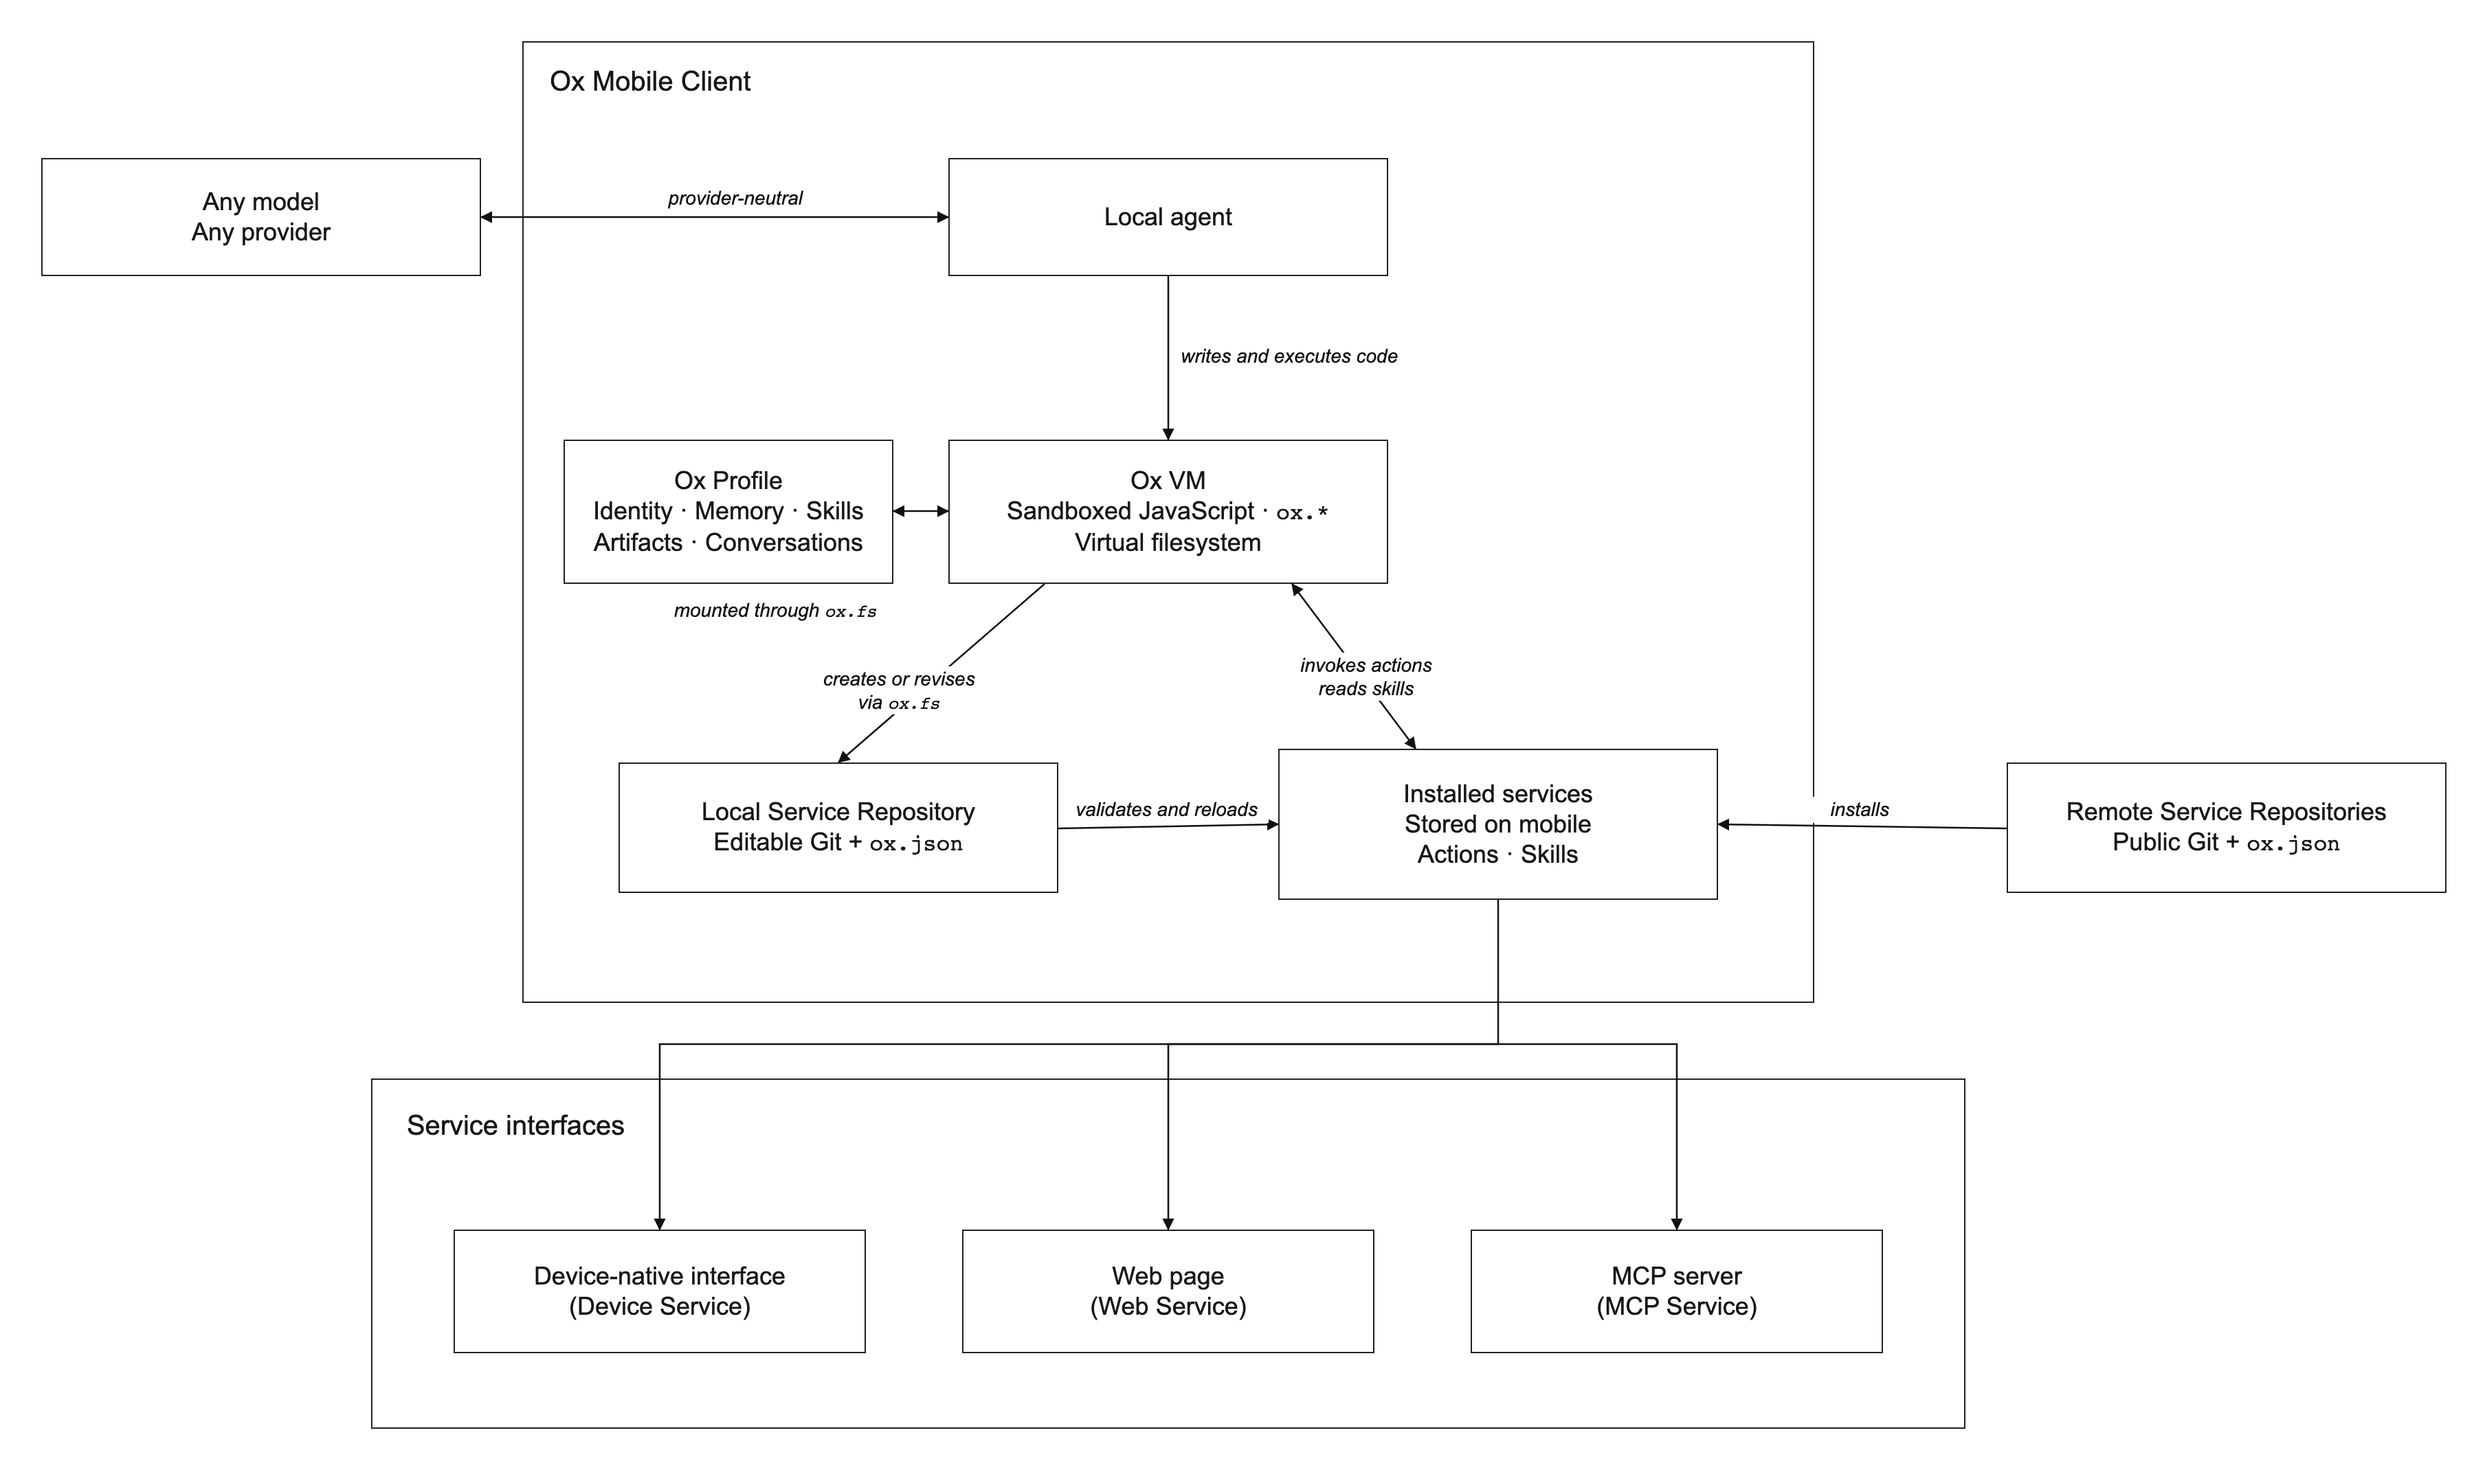
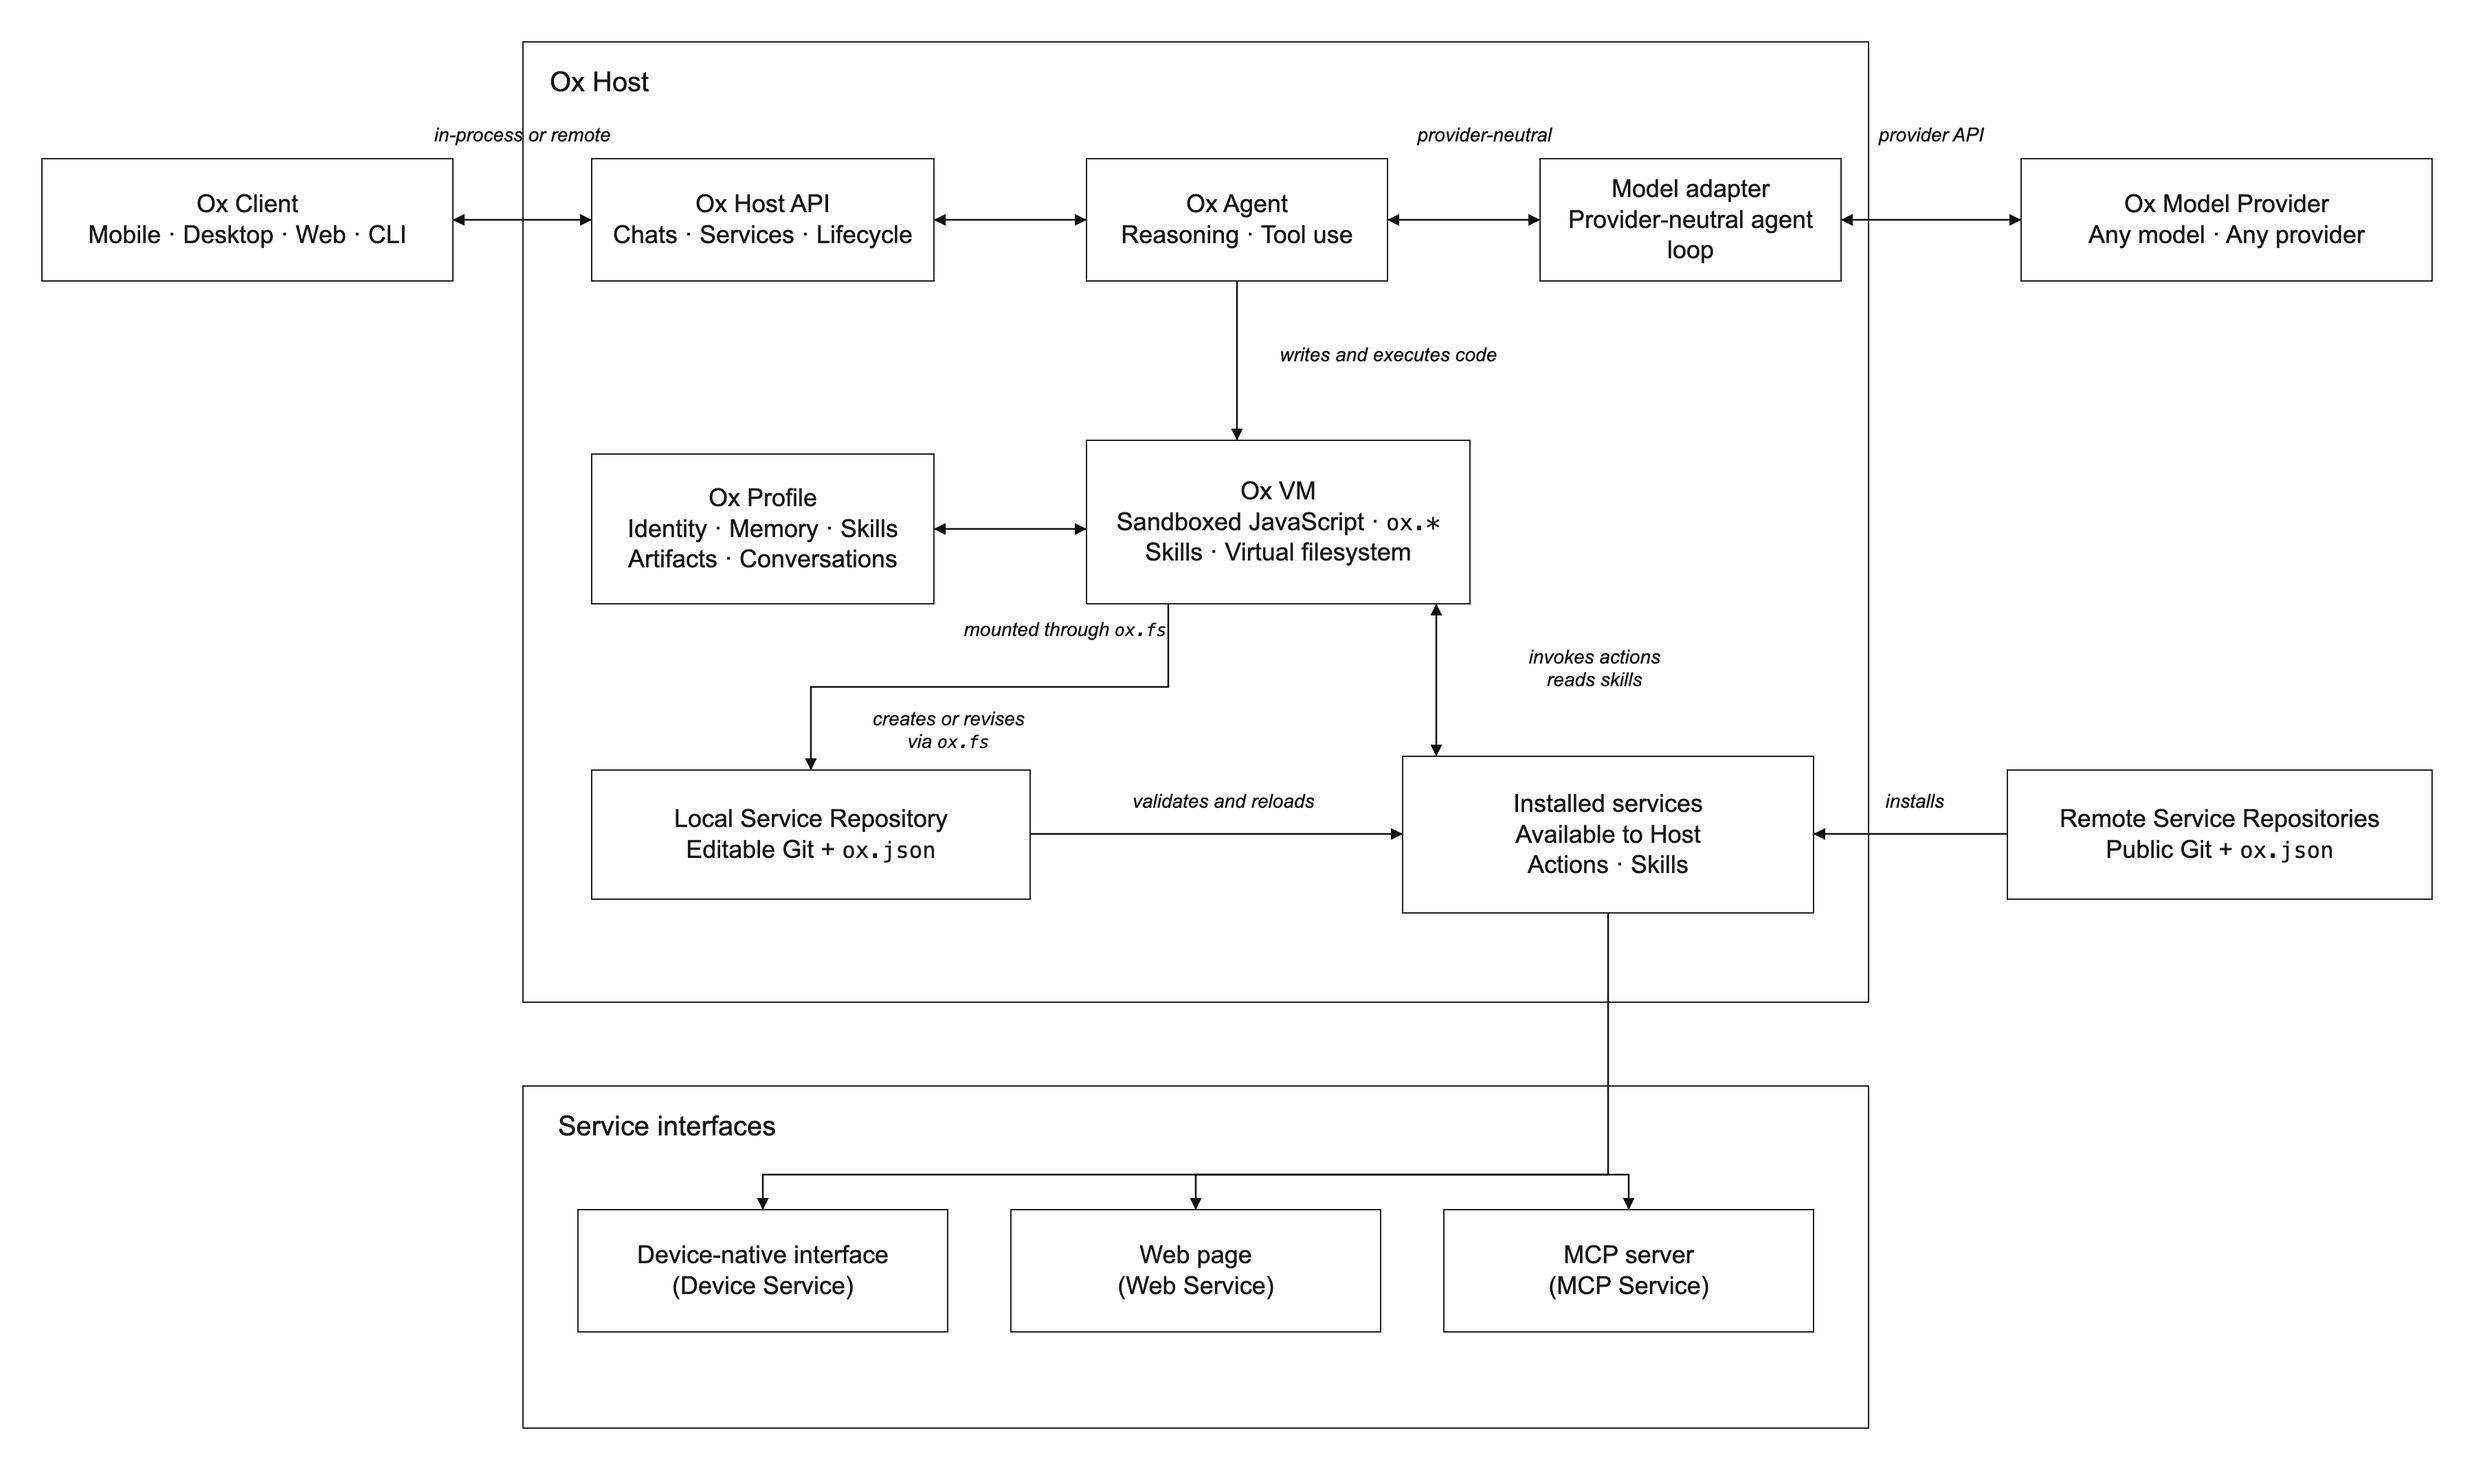
Update OpenOx components diagram

diff --git a/docs/openox-components.html b/docs/openox-components.html
@@ -44,18 +44,18 @@
       background: #ffffff;
     }
 
-    .client {
+    .host {
       left: 21.1111%;
       top: 2.8037%;
-      width: 52.2222%;
+      width: 54.4444%;
       height: 65.4206%;
     }
 
     .interfaces {
-      left: 15%;
-      top: 73.3645%;
-      width: 64.4444%;
-      height: 23.8318%;
+      left: 21.1111%;
+      top: 73.8318%;
+      width: 54.4444%;
+      height: 23.3645%;
     }
 
     .group-title {
@@ -67,10 +67,10 @@
       line-height: 1;
     }
 
-    .client-title { left: 22.2222%; top: 4.6729%; }
+    .host-title { left: 22.2222%; top: 4.6729%; }
 
     .interfaces-title {
-      left: 16.1111%;
+      left: 22.2222%;
       top: 75.7009%;
       padding: 0 6px;
       background: #ffffff;
@@ -101,16 +101,19 @@
       font-size: 0.9em;
     }
 
-    .model { left: 1.6667%; top: 10.7477%; width: 17.7778%; height: 8.0374%; }
-    .profile { left: 22.7778%; top: 29.9065%; width: 13.3333%; height: 9.8131%; }
-    .agent { left: 38.3333%; top: 10.7477%; width: 17.7778%; height: 8.0374%; }
-    .vm { left: 38.3333%; top: 29.9065%; width: 17.7778%; height: 9.8131%; }
-    .local-repository { left: 25%; top: 51.8692%; width: 17.7778%; height: 8.8785%; }
-    .services { left: 51.6667%; top: 50.9346%; width: 17.7778%; height: 10.2804%; }
-    .remote-repositories { left: 81.1111%; top: 51.8692%; width: 17.7778%; height: 8.8785%; }
-    .device { left: 18.3333%; top: 83.6449%; width: 16.6667%; height: 8.4112%; }
-    .web { left: 38.8889%; top: 83.6449%; width: 16.6667%; height: 8.4112%; }
-    .mcp { left: 59.4444%; top: 83.6449%; width: 16.6667%; height: 8.4112%; }
+    .client-node { left: 1.6667%; top: 10.7477%; width: 16.6667%; height: 8.4112%; }
+    .host-api { left: 23.8889%; top: 10.7477%; width: 13.8889%; height: 8.4112%; }
+    .agent { left: 43.8889%; top: 10.7477%; width: 12.2222%; height: 8.4112%; }
+    .model-adapter { left: 62.2222%; top: 10.7477%; width: 12.2222%; height: 8.4112%; }
+    .model { left: 81.6667%; top: 10.7477%; width: 16.6667%; height: 8.4112%; }
+    .profile { left: 23.8889%; top: 30.8411%; width: 13.8889%; height: 10.2804%; }
+    .vm { left: 43.8889%; top: 29.9065%; width: 15.5556%; height: 11.215%; }
+    .local-repository { left: 23.8889%; top: 52.3364%; width: 17.7778%; height: 8.8785%; }
+    .services { left: 56.6667%; top: 51.4019%; width: 16.6667%; height: 10.7477%; }
+    .remote-repositories { left: 81.1111%; top: 52.3364%; width: 17.2222%; height: 8.8785%; }
+    .device { left: 23.3333%; top: 82.243%; width: 15%; height: 8.4112%; }
+    .web { left: 40.8333%; top: 82.243%; width: 15%; height: 8.4112%; }
+    .mcp { left: 58.3333%; top: 82.243%; width: 15%; height: 8.4112%; }
 
     .connections {
       position: absolute;
@@ -132,8 +135,7 @@
     .edge-label {
       position: absolute;
       z-index: 3;
-      padding: 1px 4px;
-      background: #ffffff;
+      padding: 0;
       color: #111111;
       font-size: clamp(9px, 0.78vw, 14px);
       font-style: italic;
@@ -142,13 +144,15 @@
       white-space: nowrap;
     }
 
-    .provider-label { left: 24.7222%; top: 12.6168%; width: 10%; }
-    .profile-label { left: 23.3333%; top: 40.6542%; width: 16%; }
-    .agent-label { left: 47.5%; top: 23.3645%; }
-    .local-label { left: 31.3333%; top: 45.3271%; width: 10%; }
-    .invoke-label { left: 52.3333%; top: 44.3925%; }
-    .validate-label { left: 43%; top: 54.2056%; width: 8.3%; }
-    .install-label { left: 71.6667%; top: 54.2056%; width: 7%; }
+    .host-label { left: 17.2222%; top: 8.4112%; width: 7.7778%; }
+    .provider-label { left: 74.4444%; top: 8.4112%; width: 7.2222%; }
+    .agent-label { left: 51.1111%; top: 23.3645%; width: 10%; }
+    .profile-label { left: 36.1111%; top: 42.0561%; width: 13.8889%; }
+    .adapter-label { left: 56.1111%; top: 8.4112%; width: 7.7778%; }
+    .local-label { left: 33.3333%; top: 48.1308%; width: 10%; }
+    .invoke-label { left: 59.4444%; top: 43.9252%; width: 10%; }
+    .validate-label { left: 43.8889%; top: 53.7383%; width: 11.1111%; }
+    .install-label { left: 73.8889%; top: 53.7383%; width: 7%; }
 
     .sr-only {
       position: absolute;
@@ -165,20 +169,23 @@
 </head>
 <body>
   <main class="diagram" aria-labelledby="diagram-title">
-    <h1 id="diagram-title" class="sr-only">OpenOx components and service interfaces</h1>
+    <h1 id="diagram-title" class="sr-only">OpenOx Client, Host, Agent, Profile, VM, services, and service interfaces</h1>
 
-    <section class="group client" aria-labelledby="client-title"></section>
-    <h2 id="client-title" class="group-title client-title">Ox Mobile Client</h2>
+    <section class="group host" aria-labelledby="host-title"></section>
+    <h2 id="host-title" class="group-title host-title">Ox Host</h2>
 
     <section class="group interfaces" aria-labelledby="interfaces-title"></section>
     <h2 id="interfaces-title" class="group-title interfaces-title">Service interfaces</h2>
 
-    <article class="node model"><h2>Any model</h2><p>Any provider</p></article>
+    <article class="node client-node"><h2>Ox Client</h2><p>Mobile · Desktop · Web · CLI</p></article>
+    <article class="node model"><h2>Ox Model Provider</h2><p>Any model · Any provider</p></article>
+    <article class="node host-api"><h2>Ox Host API</h2><p>Chats · Services · Lifecycle</p></article>
+    <article class="node agent"><h2>Ox Agent</h2><p>Reasoning · Tool use</p></article>
     <article class="node profile"><h2>Ox Profile</h2><p>Identity · Memory · Skills</p><p>Artifacts · Conversations</p></article>
-    <article class="node agent"><h2>Local agent</h2></article>
-    <article class="node vm"><h2>Ox VM</h2><p>Sandboxed JavaScript · <code>ox.*</code></p><p>Virtual filesystem</p></article>
+    <article class="node vm"><h2>Ox VM</h2><p>Sandboxed JavaScript · <code>ox.*</code></p><p>Skills · Virtual filesystem</p></article>
+    <article class="node model-adapter"><h2>Model adapter</h2><p>Provider-neutral agent loop</p></article>
     <article class="node local-repository"><h2>Local Service Repository</h2><p>Editable Git + <code>ox.json</code></p></article>
-    <article class="node services"><h2>Installed services</h2><p>Stored on mobile</p><p>Actions · Skills</p></article>
+    <article class="node services"><h2>Installed services</h2><p>Available to Host</p><p>Actions · Skills</p></article>
     <article class="node remote-repositories"><h2>Remote Service Repositories</h2><p>Public Git + <code>ox.json</code></p></article>
     <article class="node device"><h2>Device-native interface</h2><p>(Device Service)</p></article>
     <article class="node web"><h2>Web page</h2><p>(Web Service)</p></article>
@@ -193,21 +200,26 @@
           <path d="M 7 0 L 0 3.5 L 7 7 Z" fill="#111111"></path>
         </marker>
       </defs>
-      <path class="connection" d="M 350 158 L 690 158" marker-start="url(#arrow-start)" marker-end="url(#arrow)"></path>
-      <path class="connection" d="M 650 372 L 690 372" marker-start="url(#arrow-start)" marker-end="url(#arrow)"></path>
-      <path class="connection" d="M 850 201 L 850 320" marker-end="url(#arrow)"></path>
-      <path class="connection" d="M 760 425 L 610 555" marker-end="url(#arrow)"></path>
-      <path class="connection" d="M 940 425 L 1030 545" marker-start="url(#arrow-start)" marker-end="url(#arrow)"></path>
-      <path class="connection" d="M 770 603 L 930 600" marker-end="url(#arrow)"></path>
-      <path class="connection" d="M 1460 603 L 1250 600" marker-end="url(#arrow)"></path>
-      <path class="connection" d="M 1090 655 L 1090 760 L 480 760 L 480 895" marker-end="url(#arrow)"></path>
-      <path class="connection" d="M 1090 760 L 850 760 L 850 895" marker-end="url(#arrow)"></path>
-      <path class="connection" d="M 1090 760 L 1220 760 L 1220 895" marker-end="url(#arrow)"></path>
+      <path class="connection" d="M 330 160 L 430 160" marker-start="url(#arrow-start)" marker-end="url(#arrow)"></path>
+      <path class="connection" d="M 680 160 L 790 160" marker-start="url(#arrow-start)" marker-end="url(#arrow)"></path>
+      <path class="connection" d="M 1010 160 L 1120 160" marker-start="url(#arrow-start)" marker-end="url(#arrow)"></path>
+      <path class="connection" d="M 1340 160 L 1470 160" marker-start="url(#arrow-start)" marker-end="url(#arrow)"></path>
+      <path class="connection" d="M 900 205 L 900 320" marker-end="url(#arrow)"></path>
+      <path class="connection" d="M 680 385 L 790 385" marker-start="url(#arrow-start)" marker-end="url(#arrow)"></path>
+      <path class="connection" d="M 850 440 L 850 500 L 590 500 L 590 560" marker-end="url(#arrow)"></path>
+      <path class="connection" d="M 1045 440 L 1045 550" marker-start="url(#arrow-start)" marker-end="url(#arrow)"></path>
+      <path class="connection" d="M 750 607 L 1020 607" marker-end="url(#arrow)"></path>
+      <path class="connection" d="M 1460 607 L 1320 607" marker-end="url(#arrow)"></path>
+      <path class="connection" d="M 1170 665 L 1170 855 L 555 855 L 555 880" marker-end="url(#arrow)"></path>
+      <path class="connection" d="M 1170 855 L 870 855 L 870 880" marker-end="url(#arrow)"></path>
+      <path class="connection" d="M 1170 855 L 1185 855 L 1185 880" marker-end="url(#arrow)"></path>
     </svg>
 
-    <div class="edge-label provider-label">provider-neutral</div>
-    <div class="edge-label profile-label">mounted through <code>ox.fs</code></div>
+    <div class="edge-label host-label">in-process or remote</div>
+    <div class="edge-label provider-label">provider API</div>
     <div class="edge-label agent-label">writes and executes code</div>
+    <div class="edge-label profile-label">mounted through <code>ox.fs</code></div>
+    <div class="edge-label adapter-label">provider-neutral</div>
     <div class="edge-label local-label">creates or revises<br>via <code>ox.fs</code></div>
     <div class="edge-label invoke-label">invokes actions<br>reads skills</div>
     <div class="edge-label validate-label">validates and reloads</div>

diff --git a/README.md b/README.md
@@ -29,16 +29,7 @@ The first implementation of Ox is an iOS Client and Host whose source code is in
 
 ## Components
 
-```mermaid
-flowchart LR
-    Client[Ox Client] -->|Host protocol| Host[Ox Host]
-    Host --> Profile[Ox Profile]
-    Host --> Model[Ox Model Provider]
-    Host --> VM[Ox VM]
-    VM --> Capabilities[ox.* capabilities]
-    VM --> Skills[Skills and VFS]
-    Capabilities --> Services[Device, web, and MCP services]
-```
+![OpenOx components](docs/openox-components.png)
 
 - **Ox Client** — An interface that connects to an Ox Host. A Client may be a mobile app, desktop app, web app, or command-line tool.
 - **Ox Host** — A process or device that opens an Ox Profile, runs the Ox VM, and supplies platform and service adapters. A Client can use an embedded Host or target a compatible Host elsewhere.
